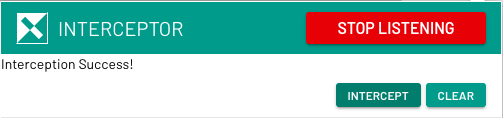
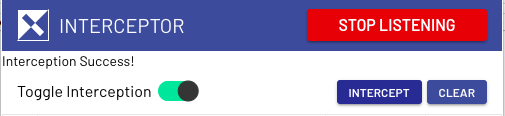
Update readme for v0.0.3 release (#104)
* Update readme for v0.0.3 release

* Strike-through disable/enable todo in readme

diff --git a/README.md b/README.md
@@ -17,33 +17,47 @@ $ npm run watch
 
 ## Status
 
+Once you open the extension popup, it shows a UI as seen below. By default, `Intercept Mode` is `ON`.
+
+<img src="images/interceptor_ui.png" alt="Interceptor extension default popup">
+
 Once you start listening, it shows the count of total AJAX requests in a small badge and list of incoming `XHR` requests
 in the popup like this:
 
-<img src="images/interceptor_ui.png" alt="Interceptor extension popup showing a list of AJAX requests">
+<img src="images/interceptor_ui_xhr_list.png" alt="Interceptor extension popup showing a list of AJAX requests">
 
-You can click the small arrow beside the URL and specify a response to mock the next time the same request comes in as below:
+You can click the small arrow beside the URL and specify a response to mock, when the same request is encountered next:
 
 <img src="images/interceptor_textfields.png" alt="Specify mock responses using Interceptor as shown">
 
 You can specify the [Content-Type header][content-type] field and HTTP response [status code][status-code] through the dropdown available.
 
-Once the above fields are filled and checkboxes checked, click the `INTERCEPT` button. If the interception is successfull, it shows a success message as below:
+Once the above fields are filled and checkbox is checked, click the `INTERCEPT` button. If the interception is successfull, it shows a success message as below:
 
 <img src="images/intercept_success.png" alt="Success message shown by Interceptor upon sucessful interception">
 
+You can intercept/mock multiple calls by checking as many checkboxes as you want
+
+<img src="images/intercept_multiple_xhr.png" alt="Success message shown by Interceptor upon sucessful interception">
 
 Henceforth the same AJAX request is requested by the browser, the browser is given a fake/mock response instead of the real one.
+
+You can also stop listening for `AJAX calls` by clicking the `STOP LISTENING`
+
+The toggle switch is used to disable `INTERCEPTOR`. If the toggle is switched to `OFF` state,
+the extension will not mock any previously intercepted calls.
+
+To mock the calls again, just toggle the switch to `ON` state, check the requests that are to be mocked and click `INTERCEPT` button.
 
 ## TODO
 
 * ~~A user should be able to click on the extension button and see a popup with a list of all AJAX requests.~~
 * A user should be able to "watch" ajax requests using a URL pattern.
 * If watched requests are in pre-flight, block everything and ask the user how to handle it.
-* The user may choose to let the request pass through or fill in mock response using a form.
+* ~~The user may choose to let the request pass through or fill in mock response using a form.~~
 * Persist settings for each URL in localStorage.
 * ~~Mocked requests should hit a sinon fakeServer.~~
-* User should be able to disable/enable mocking for a page without clearing persisted settings for the URL.
+* ~~User should be able to disable/enable mocking for a page without clearing persisted settings for the URL.~~
 
 ## License
 
